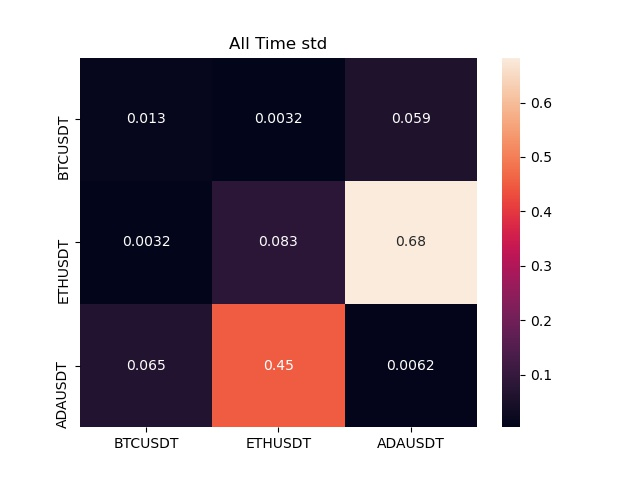
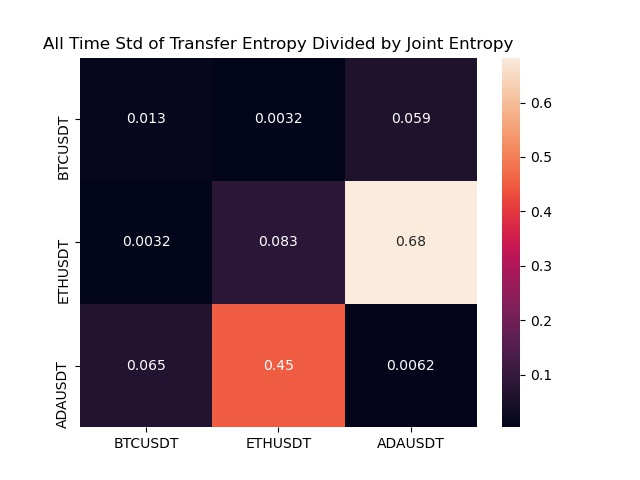
heatmap plot description.

Changed region(s): [[0.0625, 0.0625, 0.8125, 0.125]]

diff --git a/results_analysis.py b/results_analysis.py
@@ -36,8 +36,10 @@ class ResultsAnalysis:
 
     # there might be a problem with saving it in this function. maybe it will return the plot and we'll save it at the notebook.
     def create_histogram_plot(self, df = None):
+        description = ""
         if df is None:
             df = self.div_df
+            description = "Transfer Entropy Divided by Joint Entropy"
         
         fig, axes = plt.subplots(ncols=self.ncols, nrows=self.ncols, figsize=(20,20));
 
@@ -74,22 +76,27 @@ class ResultsAnalysis:
         return pd.DataFrame(data=matrix, index=self.asset_list, columns=self.asset_list)
 
     def __create_heatmap(self, df, function_to_run):
+        description = ""
         if df is None:
             df = self.div_df
-        if function_to_run == "mean":
+            description = "Transfer Entropy Divided by Joint Entropy"
+
+        if function_to_run == "Mean":
             matrix_df = self.__get_matrix_df(df.mean())
-        elif function_to_run == "std":
+        elif function_to_run == "Std":
             matrix_df = self.__get_matrix_df(df.std())
-        sns.heatmap(matrix_df, annot=True).set_title(f"All Time {function_to_run}");
+        
+        title = f"All Time {function_to_run} of {description}" 
+        sns.heatmap(matrix_df, annot=True).set_title(title);
         filename = self.folder + f"/{function_to_run}_heatmap.jpg"
         plt.savefig(filename)
         plt.close()
 
     def create_mean_heatmap(self, df=None):
-        self.__create_heatmap(df, "mean")
+        self.__create_heatmap(df, "Mean")
 
     def create_std_heatmap(self, df=None):
-        self.__create_heatmap(df, "std")
+        self.__create_heatmap(df, "Std")
 
     def create_time_dependent_plot(self, df=None):
         self.div_df.plot(subplots=True, figsize= (15,30))
